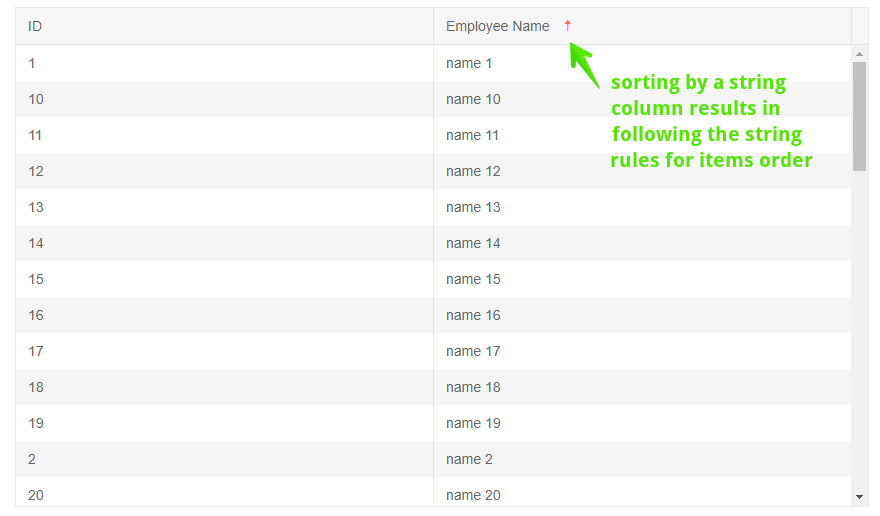
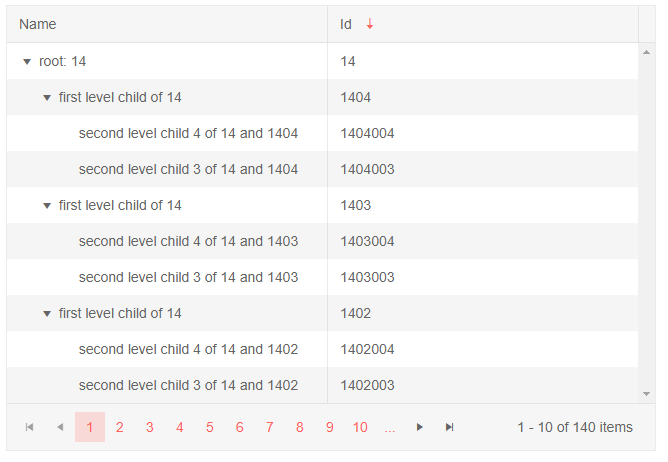
docs(treelist): sorting article

diff --git a/components/treelist/sorting.md b/components/treelist/sorting.md
@@ -1,67 +1,100 @@
 ---
 title: Sorting
-page_title: Grid - Sorting
-description: Enable and configure sorting in Grid for Blazor.
+page_title: TreeList - Sorting
+description: Enable and configure sorting in TreeList for Blazor.
 slug: treelist-sorting
-tags: telerik,blazor,grid,sorting
+tags: telerik,blazor,treelist,sorting
 published: True
 position: 21
 ---
 
-# Grid Sorting
+# TreeList Sorting
 
-The Grid component offers support for sorting.
+The TreeList component offers support for sorting.
 
-In this article:
+To enable sorting, set the `Sortable` parameter to `true`.
 
-* [Basics](#basics)
-* [Sort From Code](#sort-from-code)
-
-
-## Basics
-
-To enable sorting, set the grid's `Sortable` property to `true`.
-
-When the user clicks the column header, the grid will sort the data according to the column's data type, and an arrow indicator of the sorting direction will be shown next to the column title.
+When the user clicks the column header, the treelist will sort the data according to the column's data type, and an arrow indicator of the sorting direction will be shown next to the column title. Note that the hierarchical structure is kept, so an item's parent(s) will appear before the item.
 
 You can prevent the user from sorting a certain field by setting `Sortable="false"` on its column.
 
->caption Enable Sorting in Telerik Grid
+You can sort the treelist on the different columns and sorting is done according to the rules for the concrete column type (for example, rules for a `string` are different from rules for an `int`).
+
+>caption Enable Sorting in Telerik TreeList
 
 ````CSHTML
 Click a column header to sort by its data
 
-<TelerikGrid Data="@MyData" Sortable="true" Height="500px">
-	<GridColumns>
-		<GridColumn Field="ID"></GridColumn>
-		<GridColumn Field="TheName" Title="Employee Name"></GridColumn>
-	</GridColumns>
-</TelerikGrid>
+<TelerikTreeList Data="@Data" Sortable="true"
+                 Pageable="true" IdField="Id" ParentIdField="ParentId" Width="650px">
+    <TreeListColumns>
+        <TreeListColumn Field="Name" Expandable="true" Width="320px"></TreeListColumn>
+        <TreeListColumn Field="Id"></TreeListColumn>
+    </TreeListColumns>
+</TelerikTreeList>
 
 @code {
-	public IEnumerable<object> MyData = Enumerable.Range(1, 50).Select(x => new { ID = x, TheName = "name " + x });
+    public List<Employee> Data { get; set; }
+
+    protected override async Task OnInitializedAsync()
+    {
+        Data = await GetTreeListData();
+    }
+
+    // sample models and data generation
+
+    public class Employee
+    {
+        public int Id { get; set; }
+        public int? ParentId { get; set; }
+        public string Name { get; set; }
+    }
+
+    async Task<List<Employee>> GetTreeListData()
+    {
+        List<Employee> data = new List<Employee>();
+
+        for (int i = 1; i < 15; i++)
+        {
+            data.Add(new Employee
+            {
+                Id = i,
+                ParentId = null,
+                Name = $"root: {i}"
+            });
+
+            for (int j = 2; j < 5; j++)
+            {
+                int currId = i * 100 + j;
+                data.Add(new Employee
+                {
+                    Id = currId,
+                    ParentId = i,
+                    Name = $"first level child of {i}"
+                });
+
+                for (int k = 3; k < 5; k++)
+                {
+                    data.Add(new Employee
+                    {
+                        Id = currId * 1000 + k,
+                        ParentId = currId,
+                        Name = $"second level child {k} of {i} and {currId}"
+                    }); ;
+                }
+            }
+        }
+
+        return await Task.FromResult(data);
+    }
 }
 ````
 
->caption The result from the code snippet above, after the user clicked on the "Employee Name" header to sort
+>caption The result from the code snippet above, after the user clicked twice on the "ID" header to sort it in descending order
 
 ![](images/basic-sorting.png)
 
-You can sort this grid on the different columns to see the results. The `Name` column is a string, and sorting is done according to the rules for strings, while the `ID` column sorts acording to rules for integers.
-
-## Sort From Code
-
-You can sort the grid from your own code through its [state]({%slug grid-state%}).
-
-@[template](/_contentTemplates/grid/state.md#initial-state)
-
->caption Set sorting programmatically
-
-````CSHTML
-@[template](/_contentTemplates/grid/state.md#set-sort-from-code)
-````
-
 ## See Also
 
-  * [Live Demo: Grid Sorting](https://demos.telerik.com/blazor-ui/grid/sorting)
+  * [Live Demo: TreeList Sorting](https://demos.telerik.com/blazor-ui/treelist/sorting)
    
